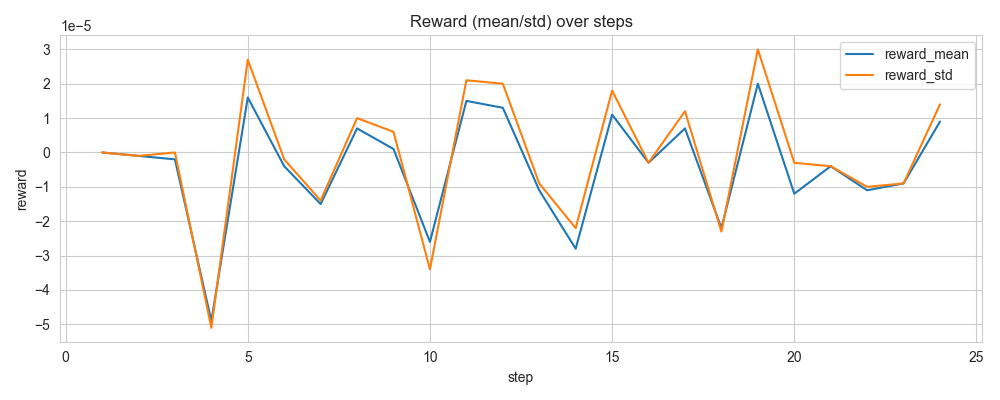
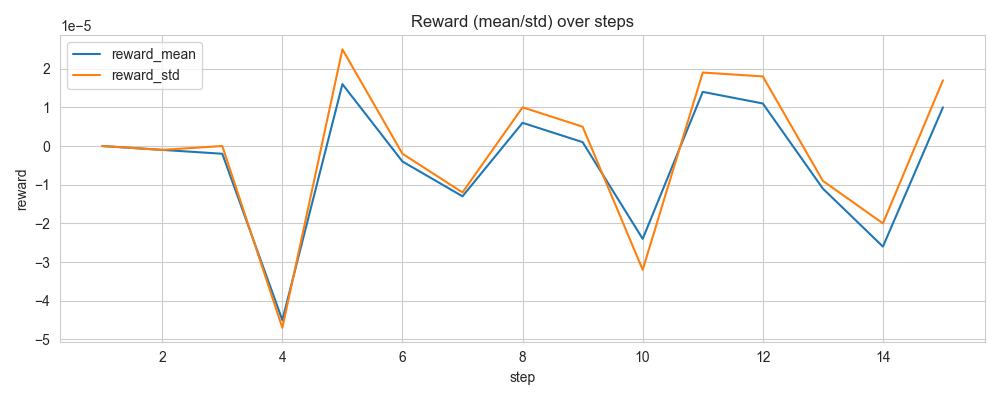
final agent test loop

diff --git a/demo/outputs/dpo_run/reports/run_report.md b/demo/outputs/dpo_run/reports/run_report.md
@@ -1,0 +1,97 @@
+## RLHF Run Diagnostic Report
+
+Generated: 2025-12-18T00:48:25.764370Z
+
+**Trainer:** DPO | **Status:** Crashed (exception)
+
+### Run Summary
+- Steps: 15
+- Final Reward Mean: 0.000
+
+- Final DPO Loss: 0.6931
+- Mean Win Rate: 61.7%
+- Final Win Rate: 75.0%
+
+
+
+
+
+### Key Insights
+
+
+1. [HIGH] DPO loss stuck at ~0.693 (random chance). Model may not be learning preferences.
+   *Ref: Rafailov et al. (2023) 'DPO', Section 4.2 - Loss at ln(2) indicates no preference signal*
+
+2. [MEDIUM] Win rate shows high volatility (std=0.53), indicating inconsistent preference learning.
+
+
+
+
+
+
+
+
+### Postmortem
+**Exit Reason:** exception
+- Last Step: 15
+- Timestamp: 2025-12-17T19:26:04.880887+00:00
+
+
+Traceback (truncated):
+```
+Traceback (most recent call last):
+  File "/Users/adityachallapally/Library/CloudStorage/OneDrive-Microsoft/Coding/post-training-toolkit/demo/scripts/minimal_dpo_demo.py", line 201, in <module>
+    main()
+  File "/Users/adityachallapally/Library/CloudStorage/OneDrive-Microsoft/Coding/post-training-toolkit/demo/scripts/minimal_dpo_demo.py", line 168, in main
+    trainer.train()
+  File "/Users/adityachallapally/Library/Python/3.9/lib/python/site-packages/transformers/trainer.py", line 2325, in train
+    return inner_training_loop(
+  File "/Users/adityachallapally/Library/Python/3.9/lib/python/site-packages/transformers/trainer.py", line 2756, in _inner_training_loop
+    self._maybe_log_save_evaluate(
+  File "/Users/adityachallapally/Library/Python/3.9/lib/python/site-packages/transformers/trainer.py", line 3221, in _maybe_log_save_evaluate
+    metrics = self._evaluate(trial, ignore_keys_for_eval)
+  File "/Users/adityachallapally/Library/Python/3.9/lib/python/site-packages/transformers/trainer.py", line 3170, in _evaluate
+    metrics = self.evaluate(ignore_keys=ignore_keys_for_eval)
+  File "/Users/adityachallapally/Library/Python/3.9/lib/python/site-packages/transformers/trainer.py", line 4513, in evaluate
+    self.log(output.metrics)
+  File "/Users/adityachallapally/Library/Python/3.9/lib/python/site-packages/trl/trainer/dpo_trainer.py", line 1995, in log
+    return super().log(logs, start_time)
+  File "/Users/adityachallapally/Library/Python/3.9/lib/python/site-packages/transformers/trainer.py", line 3793, in log
+    self.control = self.callback_handler.on_log(self.args, self.state, self.control, logs)
+  File "/Users/adityachallapally/Library/Python/3.9/lib/python/site-packages/transformers/trainer_callback.py", line 549, in on_log
+    return self.call_event("on_log", args, state, control, logs=logs)
+  File "/Users/adityachallapally/Library/Python/3.9/lib/python/site-packages/transformers/trainer_callback.py", line 556, in call_event
+    result = getattr(callback, event)(
+  File "/Users/adityachallapally/Library/Python/3.9/lib/python/site-packages/transformers/trainer_callback.py", line 693, in on_log
+    self.training_bar.write(str(shallow_logs))
+  File "/Users/adityachallapally/Library/Python/3.9/lib/python/site-packages/tqdm/std.py", line 720, in write
+    with cls.external_write_mode(file=file, nolock=nolock):
+  File "/Library/Developer/CommandLineTools/Library/Frameworks/Python3.framework/Versions/3.9/lib/python3.9/contextlib.py", line 117, in __enter__
+    return next(self.gen)
+  File "/Users/adityachallapally/Library/Python/3.9/lib/python/site-packages/tqdm/std.py", line 745, in external_write_mode
+    inst.clear(nolock=True)
+  File "/Users/adityachallapally/Library/Python/3.9/lib/python/site-packages/tqdm/std.py", line 1319, in clear
+    self.sp('')
+  File "/Users/adityachallapally/Library/Python/3.9/lib/python/site-packages/tqdm/std.py", line 459, in print_status
+    fp_write('\r' + s + (' ' * max(last_len[0] - len_s, 0)))
+  File "/Users/adityachallapally/Library/Python/3.9/lib/python/site-packages/tqdm/std.py", line 452, in fp_write
+    fp.write(str(s))
+  File "/Users/adityachallapally/Library/Python/3.9/lib/python/site-packages/tqdm/utils.py", line 196, in inner
+    return func(*args, **kwargs)
+  File "/Library/Developer/CommandLineTools/Library/Frameworks/Python3.framework/Versions/3.9/lib/python3.9/contextlib.py", line 79, in inner
+    return func(*args, **kwds)
+  File "/Users/adityachallapally/Library/Python/3.9/lib/python/site-packages/wandb/sdk/lib/console_capture.py", line 171, in write_with_callbacks
+    n = orig_write(s)
+BrokenPipeError: [Errno 32] Broken pipe
+
+```
+
+
+
+### Recommended Actions
+
+
+- DPO loss at random chance: increase learning rate 2-5x, check data quality, or reduce beta.
+
+- Win rate unstable: increase batch size for more stable gradient estimates.
+
